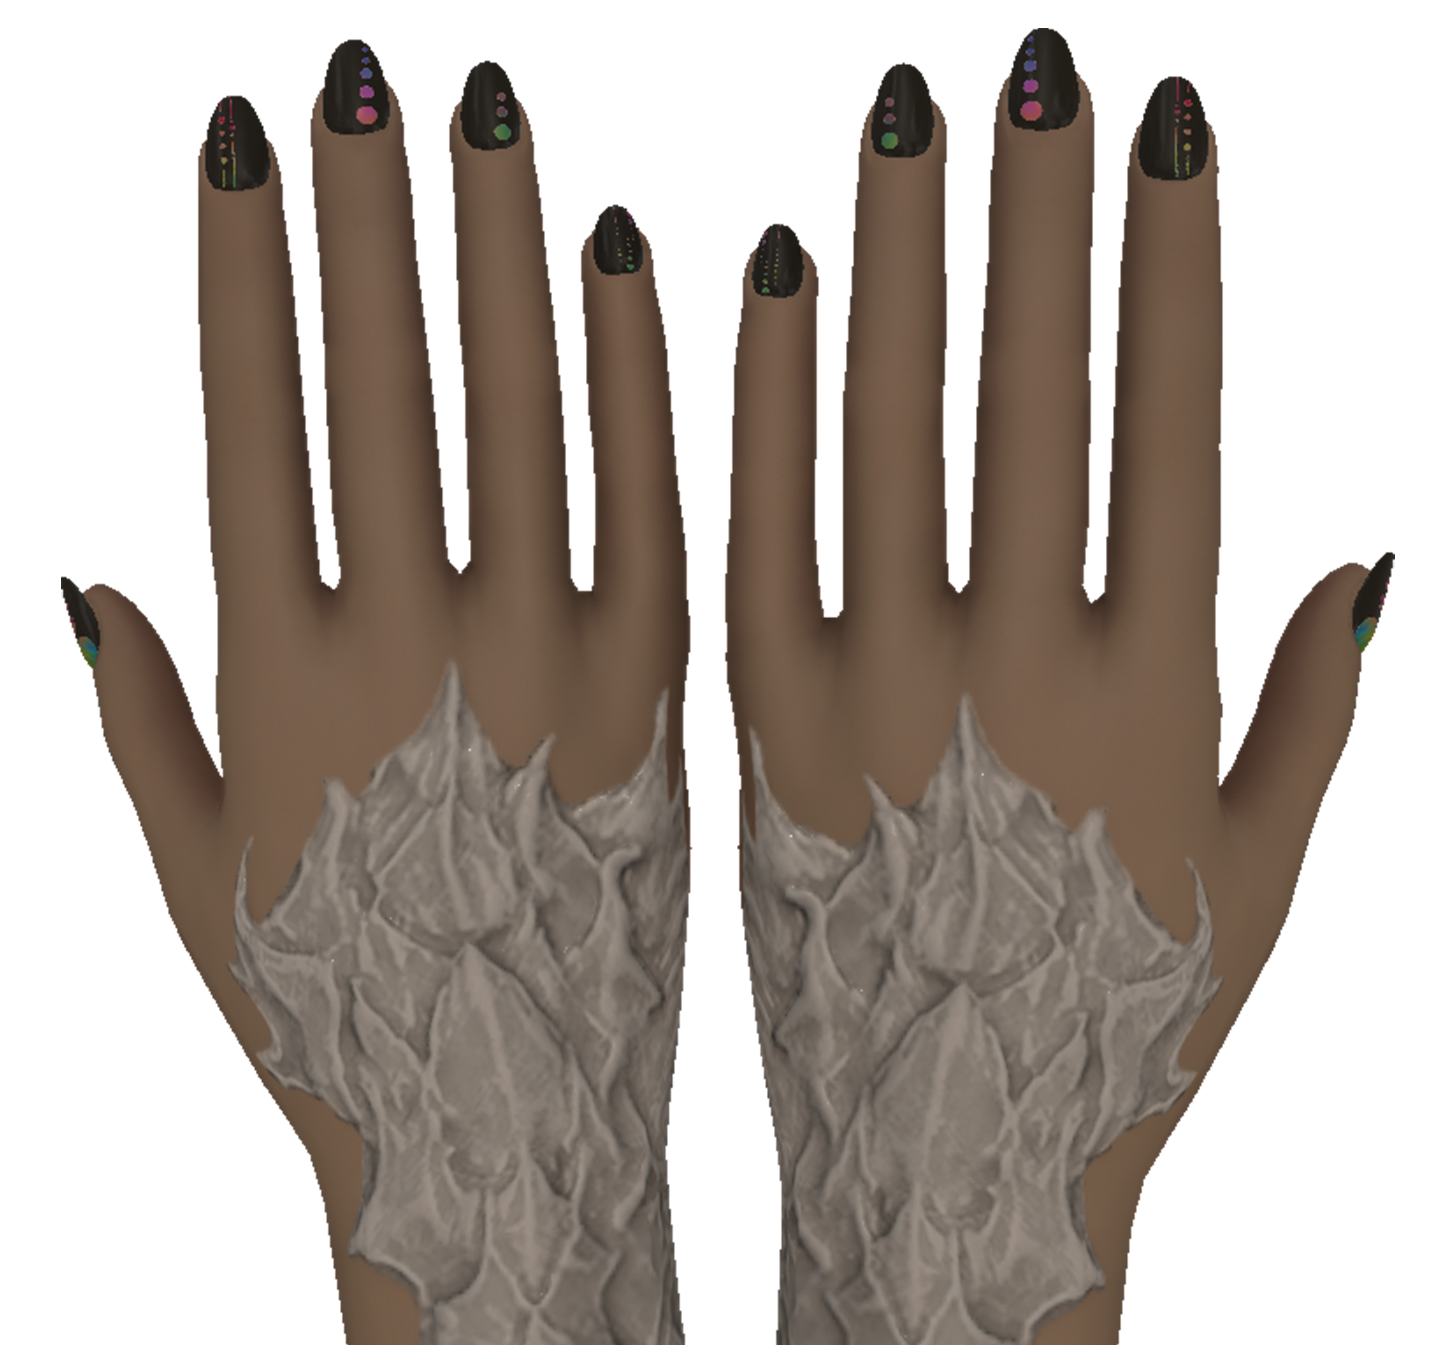
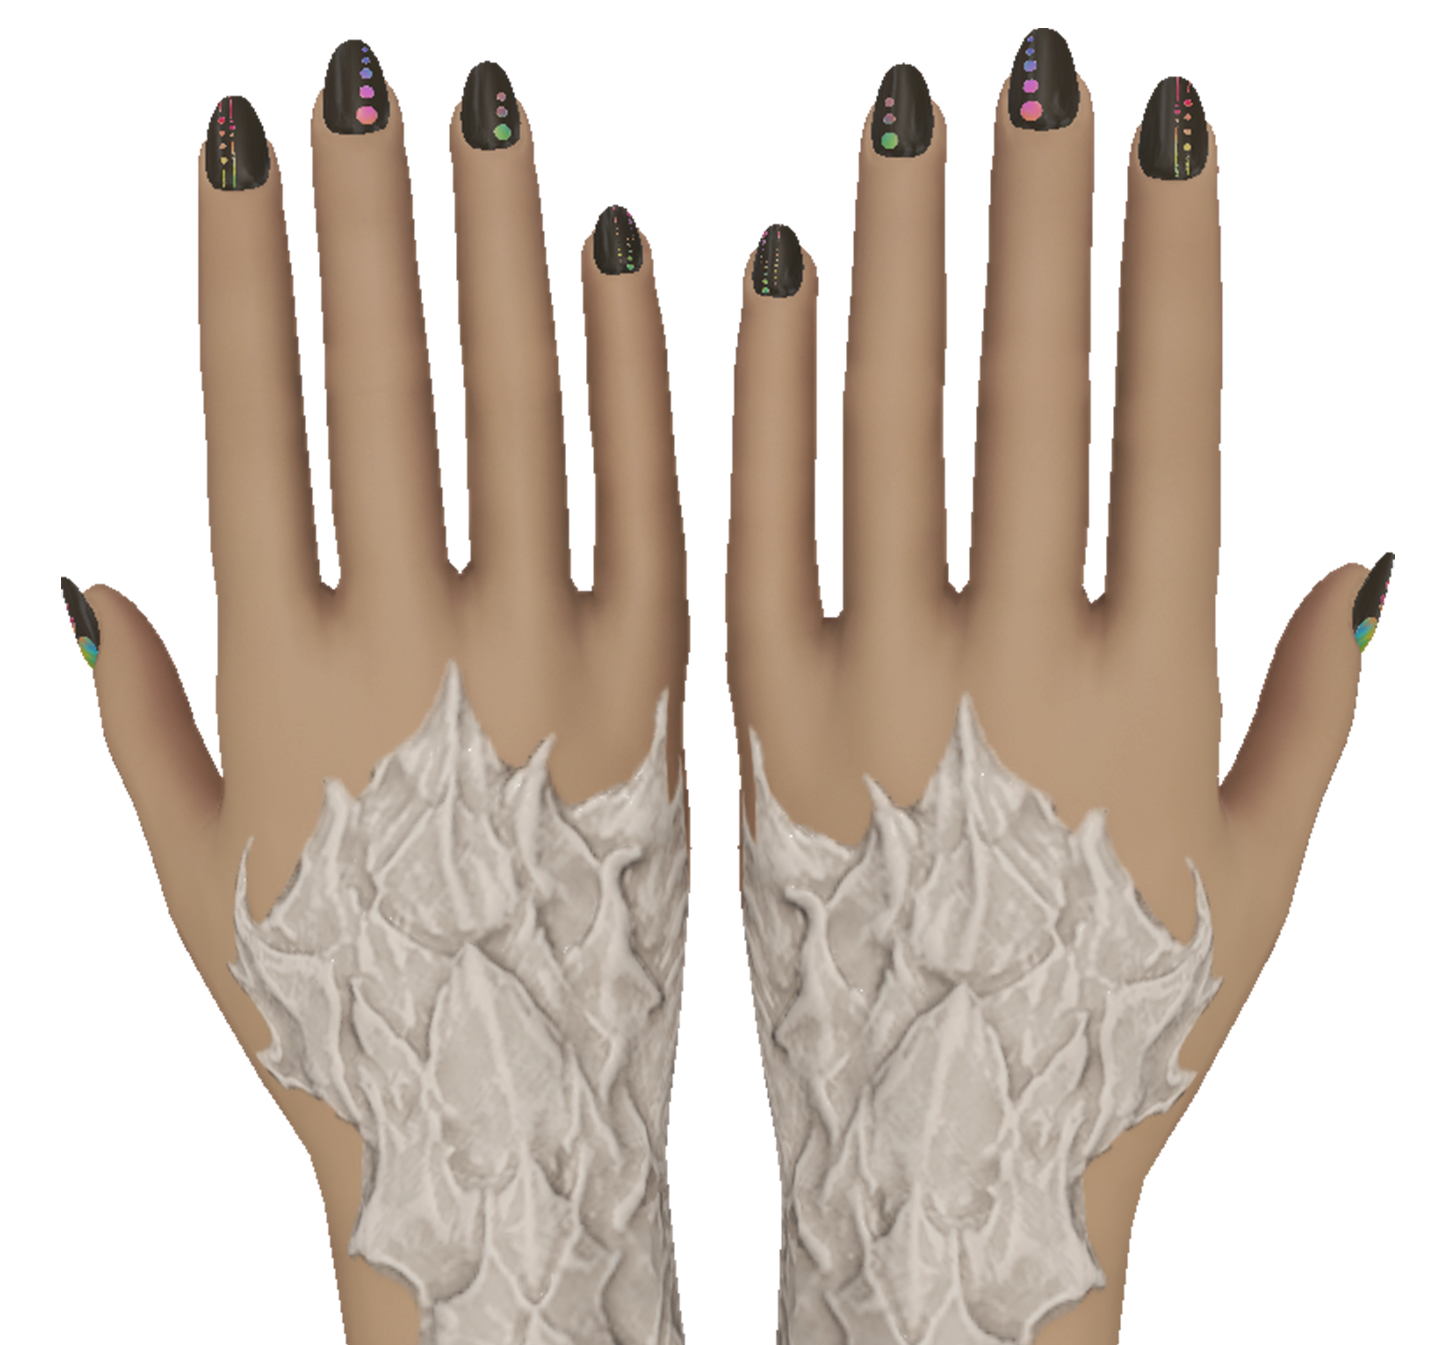
fixed null ref

diff --git a/Ktisis/Interface/Windows/PosingWindow.cs b/Ktisis/Interface/Windows/PosingWindow.cs
@@ -233,8 +233,12 @@ public class PosingWindow : KtisisWindow {
 		ImGui.Text(Ktisis.Locale.Translate("pose_view.view_chooser"));
 		
 		foreach (var value in Enum.GetValues<ViewEnum>()) {
-			if (value == ViewEnum.Custom && !this._target!.Pose!.BoneExists("iv_c_mune_l"))
+			if (value == ViewEnum.Custom && !this._target!.Pose!.BoneExists("iv_c_mune_l")) {
+				if (this._view == ViewEnum.Custom)
+					this._view = ViewEnum.Face;
 				continue;
+			}
+
 			if (ImGui.RadioButton(value.ToString(), this._view == value))
 				this._view = value;
 		}
@@ -290,7 +294,7 @@ public class PosingWindow : KtisisWindow {
 				break;
 
 			case ViewEnum.Custom:
-				if (!IsTargetSkeletonCustom()) {
+				if (!this.IsTargetSkeletonCustom()) {
 					this._view = ViewEnum.Face;
 					goto default;
 				}
@@ -331,7 +335,11 @@ public class PosingWindow : KtisisWindow {
 	}
 
 
-	private unsafe bool IsTargetSkeletonCustom() => this._target!.Pose!.GetSkeleton()->SkeletonResourceHandles[0]->FileName.ContainsString("chara/human/c");
+	private unsafe bool IsTargetSkeletonCustom() { 
+		if(this._target?.Pose == null) return true;
+		if(this._target.Pose.GetSkeleton() == null) return true;	
+		return this._target.Pose.GetSkeleton()->SkeletonResourceHandles[0]->FileName.ContainsString("chara/human/c");
+	}
 
 	private void DrawView(
 		IViewFrame frame,
